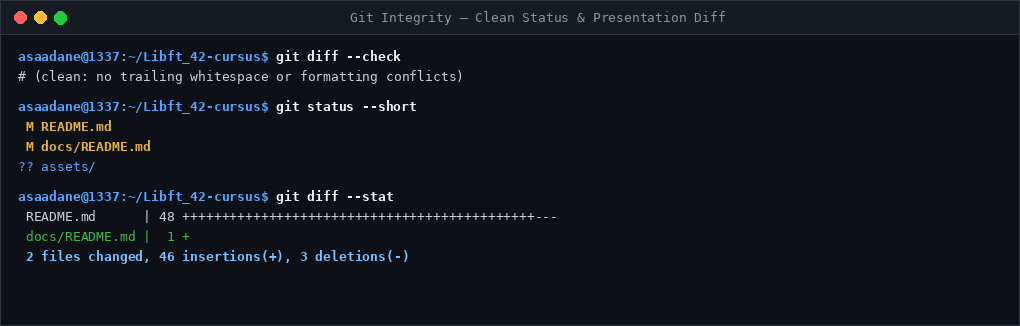
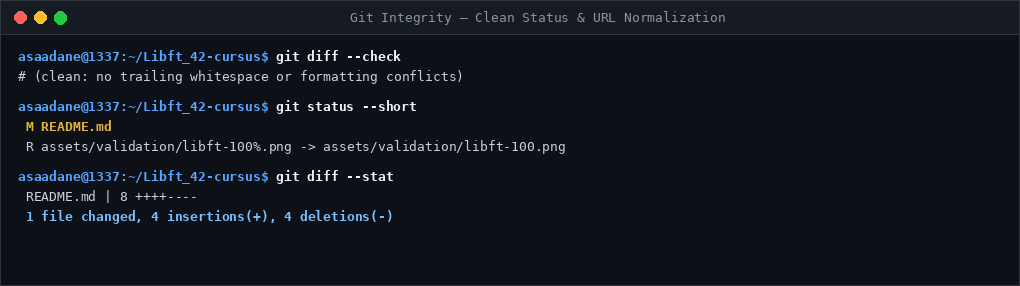
fix(docs): rename score image to libft-100.png to resolve GitHub 400 Bad Request
- Rename assets/validation/libft-100%.png to libft-100.png eliminating unencoded percent sign
- Update all image references and links in README.md
- Re-render git integrity capture reflecting clean tree and URL normalization

diff --git a/README.md b/README.md
@@ -13,7 +13,7 @@ A custom C standard library implementation re-engineering essential libc utiliti
 
 <p align="center">
   <a href="#validation-evidence">
-    <img src="assets/validation/libft-100%.png" alt="Libft 100% 42 Evaluation Result" width="800">
+    <img src="assets/validation/libft-100.png" alt="Libft 100% 42 Evaluation Result" width="800">
   </a>
 </p>
 
@@ -26,7 +26,7 @@ A custom C standard library implementation re-engineering essential libc utiliti
 | **School** | 1337 Coding School (Khouribga) — 42 Network |
 | **Target Output** | `libft.a` (Static Library Archive) |
 | **Build System** | GNU Make (`cc`, `ar`) |
-| **Evaluation Score** | [100% (42 Peer Defense)](assets/validation/libft-100%.png) |
+| **Evaluation Score** | [100% (42 Peer Defense)](assets/validation/libft-100.png) |
 | **Functions Implemented** | 34 (23 Part 1 Libc + 11 Part 2 Additional) |
 | **Bonus Part (Linked Lists)** | Not implemented in this repository (0 / 9 functions) |
 | **Documentation Hub** | [`docs/README.md`](docs/README.md) |
@@ -135,7 +135,7 @@ Libft_42-cursus/
 │       ├── build-validation.png      # Build & static archive creation evidence
 │       ├── documentation-validation.png # Doc graph validator test run
 │       ├── git-integrity.png         # Repository and whitespace validation
-│       ├── libft-100%.png            # Official 42 school 100/100 score capture
+│       ├── libft-100.png             # Official 42 school 100/100 score capture
 │       └── sanitizer-validation.png  # AddressSanitizer 0-leak / 0-error test run
 ├── header/
 │   └── libft.h                       # Primary header with prototypes and system includes
@@ -374,7 +374,7 @@ The following captures provide verifiable evidence of the authentic 42 evaluatio
 ### 1. 42 Evaluation Result (100 / 100)
 Authentic 42 intranet evaluation score demonstrating 100% project completion on the mandatory part during peer defense.
 
-![42 Evaluation Result](assets/validation/libft-100%.png)
+![42 Evaluation Result](assets/validation/libft-100.png)
 
 ### 2. Build & Static Archive Validation
 Demonstrates that `make fclean` followed by `make CFLAGS="-Wall -Wextra -Werror -Iheader -I."` compiles all 34 translation units cleanly without warnings and packages the static archive `libft.a`.
